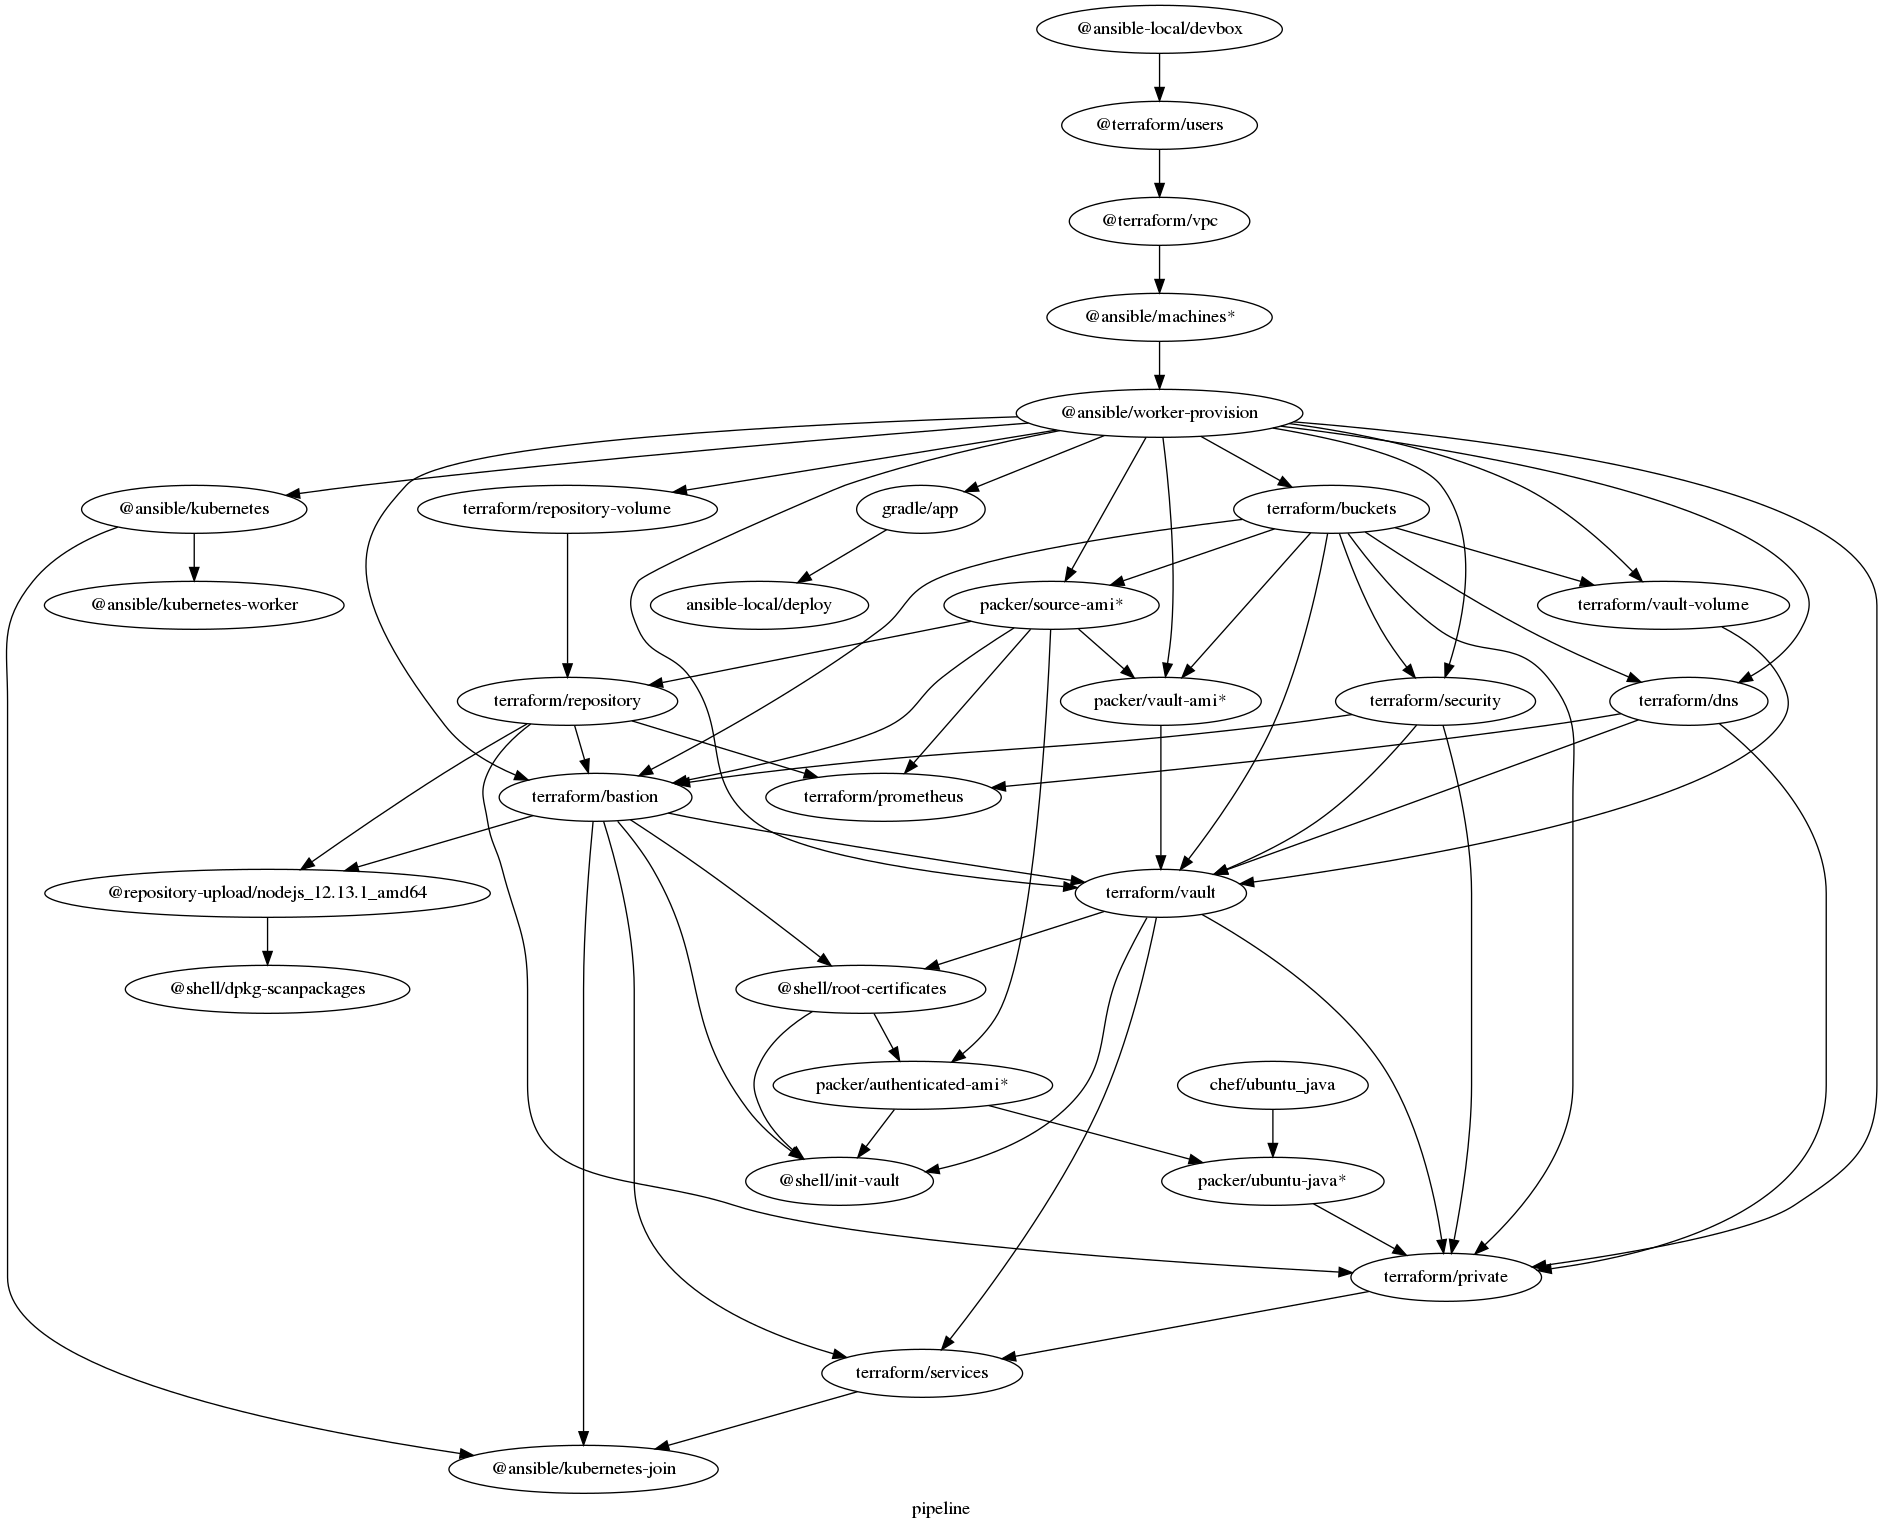
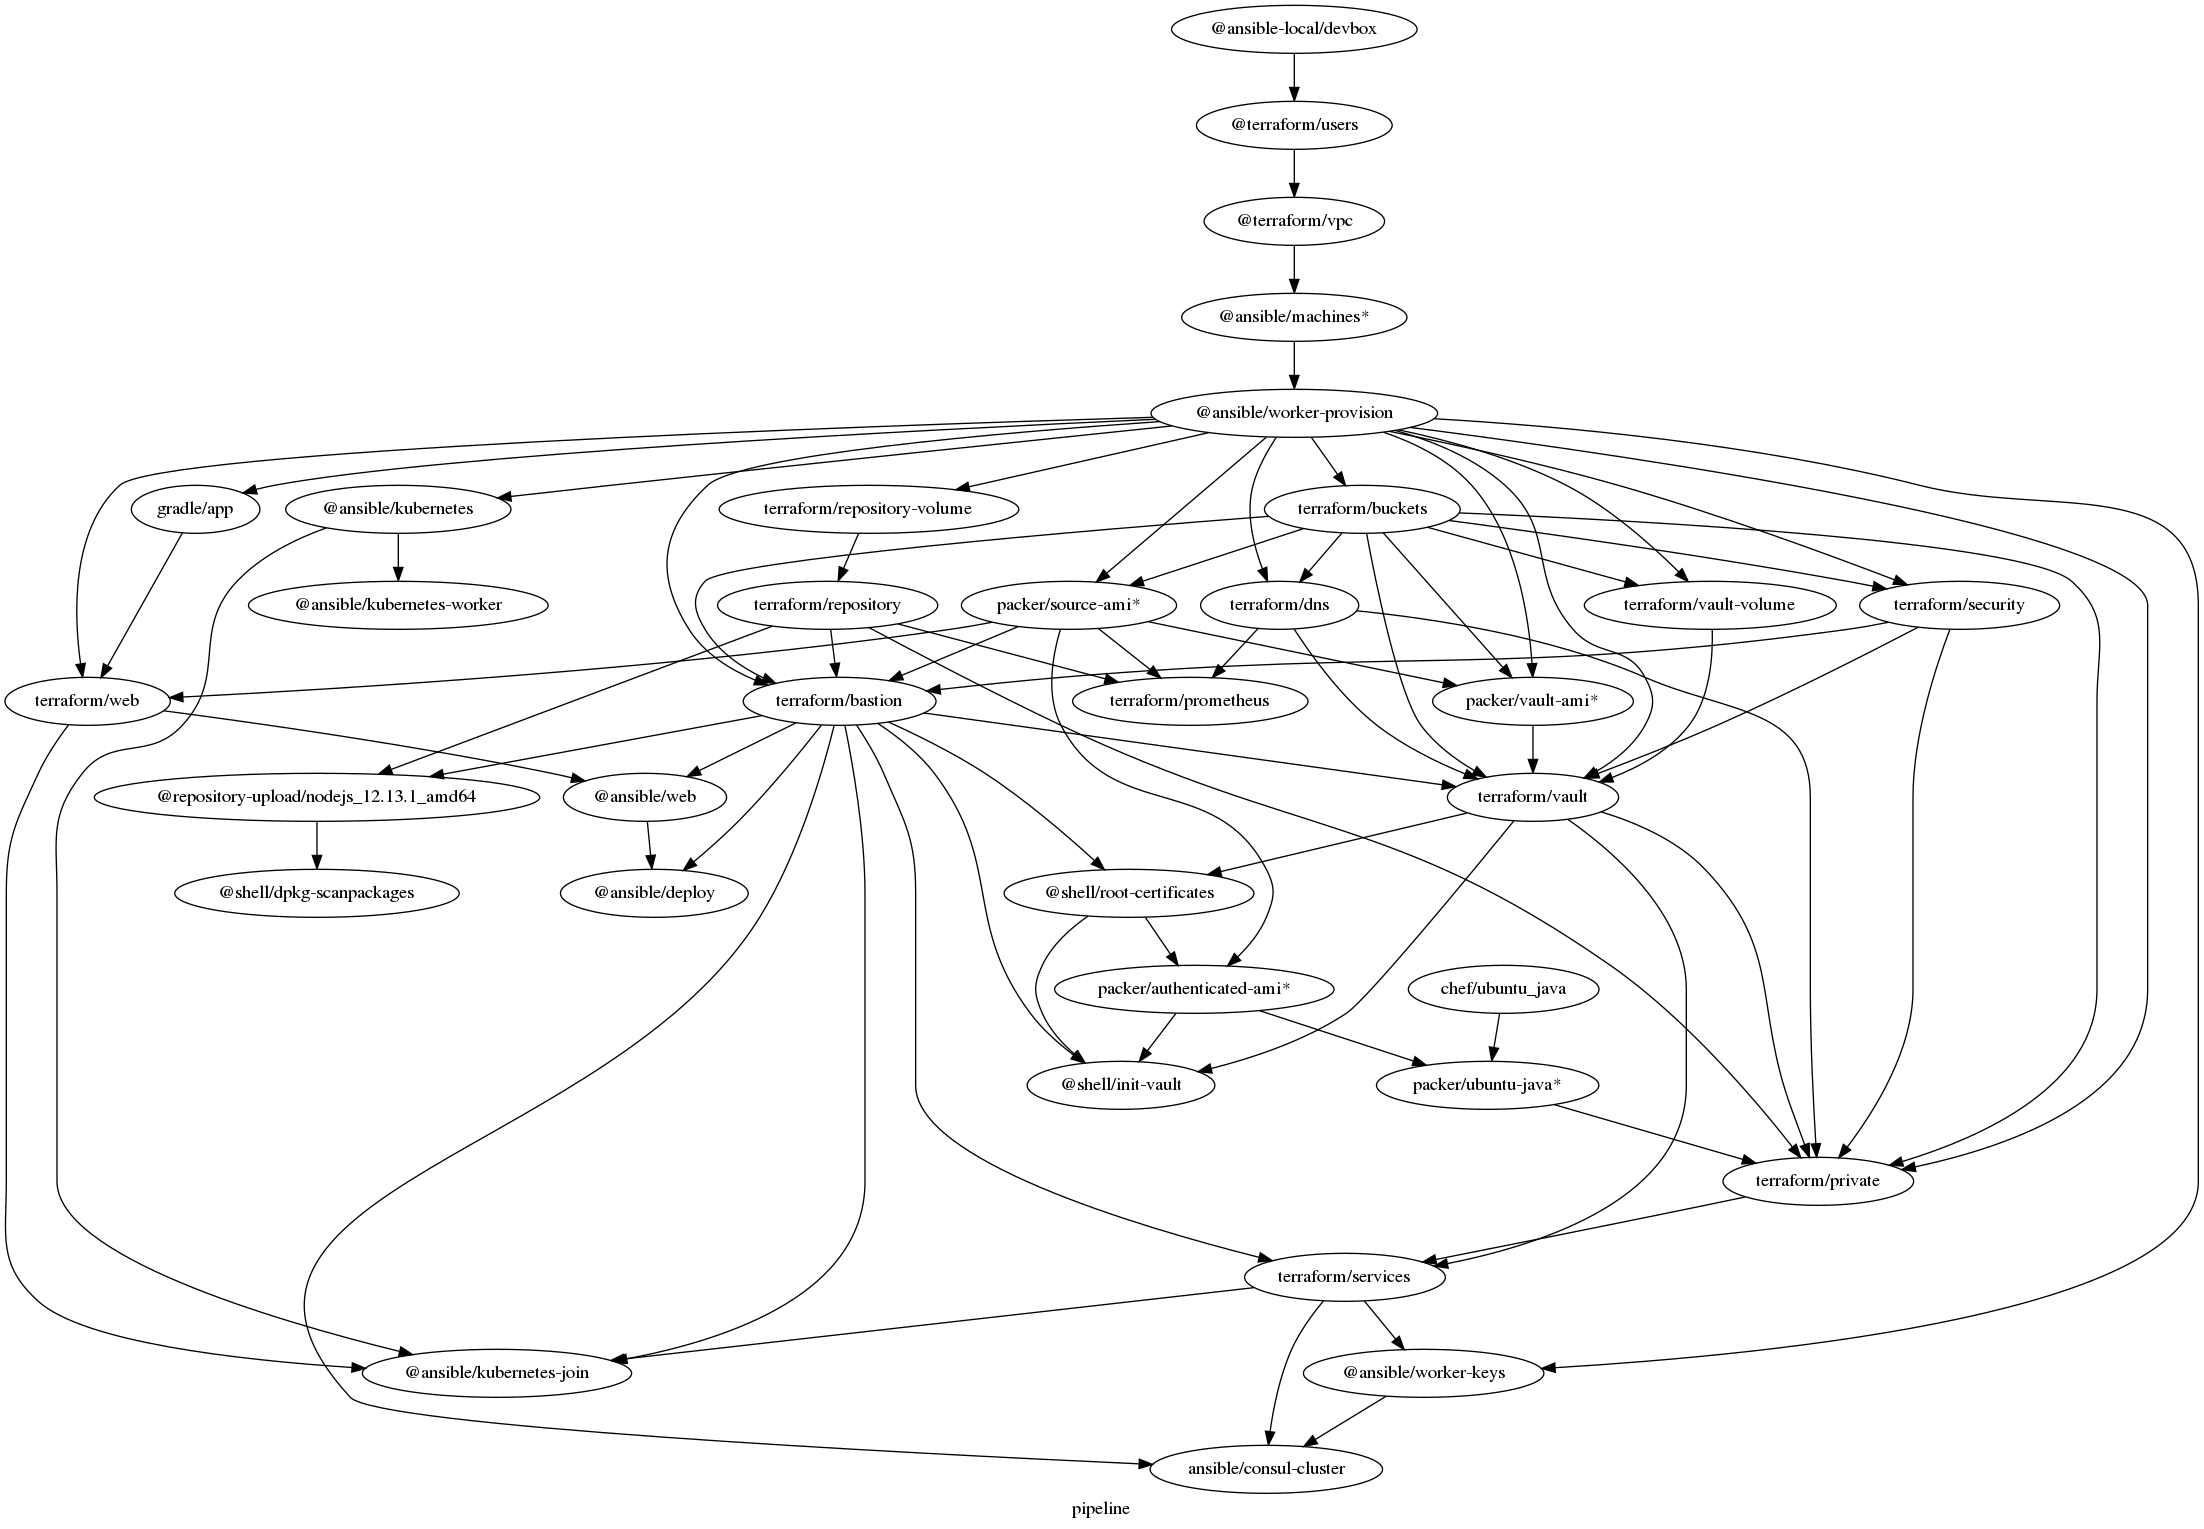
Sam provisioning of ssh keys, installation of consul

diff --git a/ansible/playbooks/consul/from_env.py b/ansible/playbooks/consul/from_env.py
@@ -1,0 +1,28 @@
+#!/usr/bin/env python3
+from argparse import ArgumentParser
+import json
+import os
+
+parser = ArgumentParser()
+parser.add_argument("--list", action="store_true")
+parser.add_argument("--host", nargs="+")
+
+args = parser.parse_args()
+
+if args.list:
+    data = {
+        "repository": {
+            "hosts": os.environ["repository_private_ip"].split(" "),
+            "children": [],
+            "vars": {}
+        }
+    }
+    print(json.dumps(data, indent=True, sort_keys=True))
+
+
+if args.host:
+    data = {
+        "ansible_ssh_private_key_file": "/home/sam/.ssh/{}".format(os.environ["key_name"]),
+        "ansible_ssh_common_args": "-o StrictHostKeyChecking=no -o \"ProxyCommand ssh -W %h:%p -i /home/sam/.ssh/{} ubuntu@{} -o StrictHostKeyChecking=no\"".format(os.environ["key_name"], os.environ["bastion_public"])
+    }
+    print(json.dumps(data, indent=True, sort_keys=True))

diff --git a/ansible/playbooks/worker-keys/from_env.py b/ansible/playbooks/worker-keys/from_env.py
@@ -1,0 +1,28 @@
+#!/usr/bin/env python3
+from argparse import ArgumentParser
+import json
+import os
+
+parser = ArgumentParser()
+parser.add_argument("--list", action="store_true")
+parser.add_argument("--host", nargs="+")
+
+args = parser.parse_args()
+
+if args.list:
+    data = {
+        "cluster": {
+            "hosts": os.environ["cluster"].split(" "),
+            "vars": {},
+            "children": []
+        }
+    }
+    print(json.dumps(data, indent=True, sort_keys=True))
+
+
+if args.host:
+    data = {
+        "ansible_ssh_private_key_file": "/home/sam/.ssh/{}".format(os.environ["key_name"]),
+        "ansible_ssh_common_args": "-o StrictHostKeyChecking=no -o \"ProxyCommand ssh -W %h:%p -i /home/sam/.ssh/{} ubuntu@{} -o StrictHostKeyChecking=no\"".format(os.environ["key_name"], os.environ["bastion_public"]) 
+    }
+    print(json.dumps(data, indent=True, sort_keys=True))

diff --git a/ansible/playbooks/consul-cluster/from_env.py b/ansible/playbooks/consul-cluster/from_env.py
@@ -1,0 +1,31 @@
+#!/usr/bin/env python3
+from argparse import ArgumentParser
+import json
+import os
+
+parser = ArgumentParser()
+parser.add_argument("--list", action="store_true")
+parser.add_argument("--host", nargs="+")
+
+args = parser.parse_args()
+
+if args.list:
+    data = {
+        "cluster": {
+            "hosts": os.environ["cluster"].split(" "),
+            "children": [],
+            "vars": {}
+        }, "repository": {
+            "hosts": os.environ["repository_private_dns"].split(" "),
+            "children": [],
+            "vars": {}
+        }
+    }
+    print(json.dumps(data, indent=True, sort_keys=True))
+
+
+if args.host:
+    data = {
+        "ansible_ssh_private_key_file": "/home/ubuntu/.ssh/id_ssh_rsa"
+    }
+    print(json.dumps(data, indent=True, sort_keys=True))
